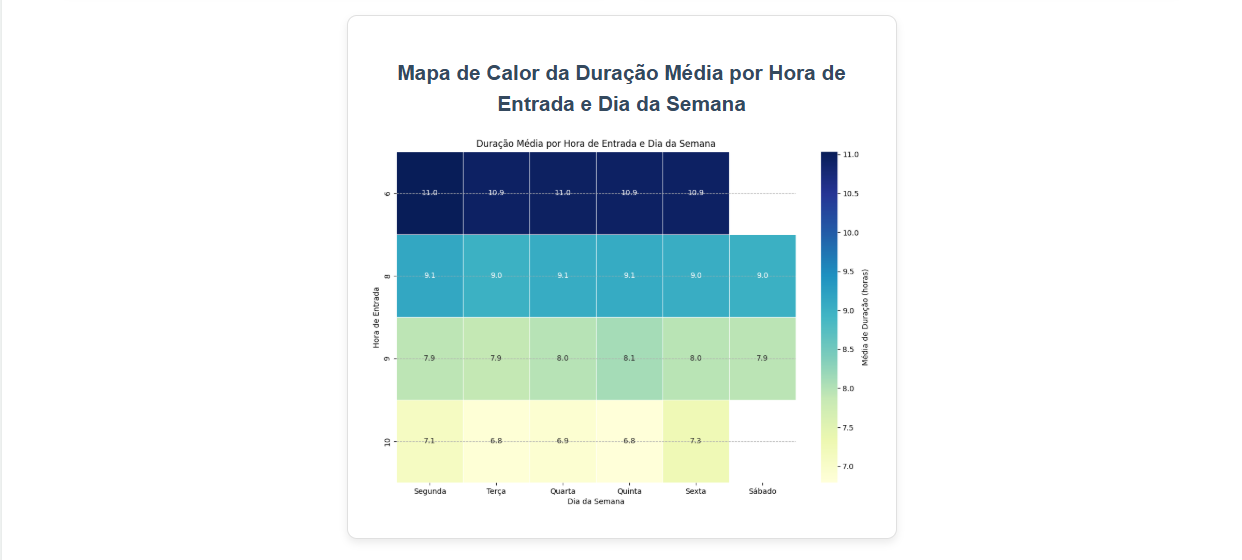
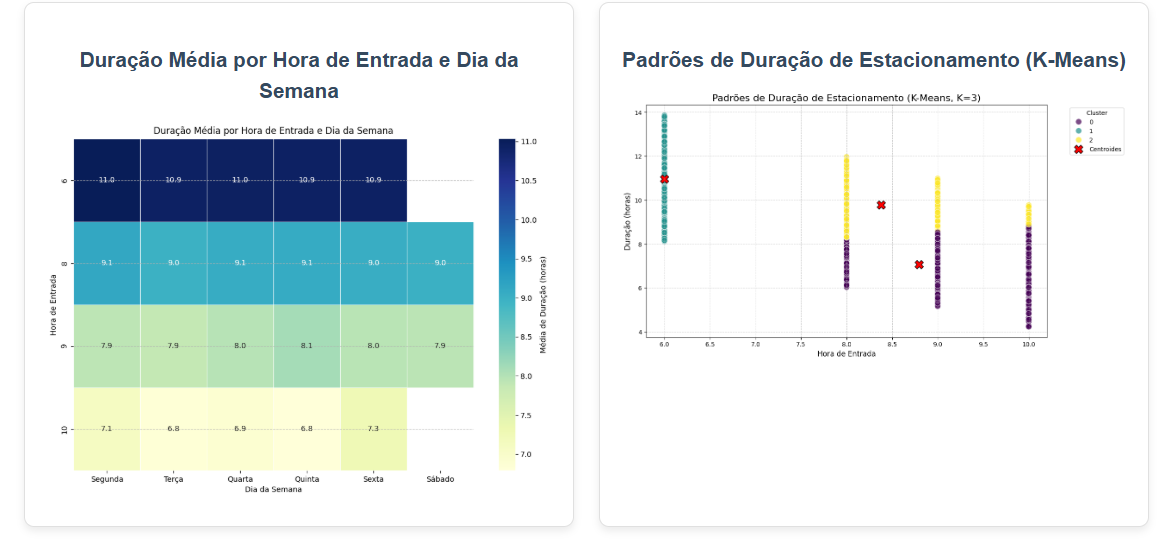
Atualizaacao README

diff --git a/README.md b/README.md
@@ -32,7 +32,6 @@ Implementação de análise de dados que são gerados pelo fluxo diário de veí
 
 Os dados acumulados no registro de movimentações diárias de veículos automotores em um estacionamento de uma instituição religiosa não têm sido aproveitados, tornandose apenas armazenamento de informações quase obsoletas. Tais dados poderão ser utilizados de forma estratégica para a tomada de decisões e melhorias operacionais, além de possibilitarem uma visão clara e objetiva dos acontecimentos. Este estacionamento é gratuito para membros, porém, outras pessoas procuram a entidade para se tornarem mensalistas. Isso acontece porque a localização da organização é privilegiada em relação ao acesso a transportes públicos — próxima à estação da CPTM e na rota de ônibus executivos — ou seja, é um local onde se pode deixar veículos em segurança e direcionar-se à capital para o trabalho.
 
-
 ## Objetivo
 
 Transformar registros operacionais em informações estratégicas, permitindo: Identificação de horários de pico e períodos de baixa demanda; Monitoramento da rotatividade e tempo médio de permanência; Classificação de perfis de usuários inadimplentes; Detecção de comportamentos atípicos ou recorrentes; Apoio à tomada de decisões para melhorias operacionais. Também faz parte do objetivo cumprir, por meio deste projeto, todos os requisitos da disciplina acadêmica.
@@ -72,8 +71,10 @@ Este é um aplicativo web simples construído com Flask para realizar a análise
     3.  **Histograma da Duração de Permanência:** Um histograma para visualizar a distribuição das durações de permanência.
     4.  **Box Plot da Duração por Mês:** Um box plot que mostra a distribuição da duração de permanência para cada mês.
     5.  **Mapa de Calor da Duração Média por Hora de Entrada e Dia da Semana:** Um mapa de calor que visualiza a duração média de permanência em diferentes horas do dia e dias da semana, identificando horários de pico ou padrões de uso.
-* **Análise Exploratória de Dados (EDA) para Pagamentos:** Gera o seguinte gráfico:
-    1.  **Gráfico de Status de Pagamento dos Mensalistas:** Um gráfico de setores (pizza) mostrando a proporção de mensalistas "Em Dia" e "Inadimplentes".
+    6.  **Padrões de Duração de Estacionamento (K-Means):** Um gráfico de dispersão que utiliza o algoritmo K-Means para agrupar veículos com base na duração da permanência e hora de entrada, revelando diferentes perfis de uso do estacionamento.
+* **Análise Exploratória de Dados (EDA) para Pagamentos:** Gera os seguintes gráficos:
+    1.  **Gráfico de Status de Pagamento dos Mensalistas (Geral):** Um gráfico de setores (pizza) mostrando a proporção de mensalistas "Em Dia" e "Inadimplentes".
+    2.  **Status de Pagamento Mensal de Mensalistas:** Um gráfico de barras que exibe a quantidade de mensalistas "Em Dia" e "Inadimplentes" por mês, permitindo a visualização da variação da adimplência ao longo do tempo.
 * **Visualização Web:** Apresenta todos os gráficos, KPIs e estatísticas de forma interativa e responsiva em um dashboard web.
 
 ## Detalhes do Código
@@ -82,15 +83,18 @@ Este é um aplicativo web simples construído com Flask para realizar a análise
 
 Este arquivo contém a lógica de backend do aplicativo Flask.
 
-* **Importações**: Carrega bibliotecas como `pandas`, `numpy`, `matplotlib`, `seaborn`, `flask`, `io`, `base64` para manipulação de dados, geração de gráficos e interface web.
+* **Importações**: Carrega bibliotecas como `pandas`, `numpy`, `matplotlib`, `seaborn`, `flask`, `io`, `base64`, `sklearn` para manipulação de dados, geração de gráficos, aprendizado de máquina e interface web.
 * **`formatar_duracao_numerica(td)`**: Função auxiliar que converte objetos `Timedelta` em duração em horas.
-* **`tratar_dados_estacionamento(df)`**: Pré-processa o DataFrame de estacionamento, calculando durações, extraindo componentes de data/hora (mês, dia da semana, hora de entrada) e tratando dados ausentes.
+* **`categorizar_periodo_do_dia(hora)`**: Classifica uma dada hora de entrada em 'Manhã', 'Tarde' ou 'Noite'.
+* **`tratar_dados_estacionamento(df)`**: Pré-processa o DataFrame de estacionamento, calculando durações, extraindo componentes de data/hora (mês, dia da semana, hora de entrada, período de entrada) e tratando dados ausentes.
 * **`tratar_dados_pagamento(df_pagamentos)`**: Pré-processa o DataFrame de pagamentos, calculando o `Status_Pagamento` baseado na data limite e dia de pagamento.
 * **`gerar_grafico(fig, ax, ...)`**: Função utilitária que salva uma figura Matplotlib em um `BytesIO` e a codifica em Base64 para ser incorporada diretamente no HTML.
+* **`gerar_grafico_kmeans_estacionamento(df_estacionamento)`**: Implementa o algoritmo K-Means para identificar padrões de uso do estacionamento com base na duração e hora de entrada, gerando um gráfico de dispersão com os clusters.
 * **`gerar_grafico_status_pagamento(df_pagamentos)`**: Função específica para criar o gráfico de setores de status de pagamento, incluindo lógica de cores e legendas.
+* **`gerar_grafico_status_pagamento_por_mes(df_pagamentos)`**: Gera um gráfico de barras que detalha o status de pagamento (Em Dia/Inadimplente) mês a mês.
 * **`realizar_analise_completa()`**: A função principal de análise de dados.
     * Carregamento e tratamento de `csv_estacionamento.csv` e `pagamentos_placas.csv`.
-    * Geração de todos os gráficos de estacionamento (5) e de pagamento (1).
+    * Geração de todos os gráficos de estacionamento (incluindo K-Means) e de pagamento.
     * Salvamento dos DataFrames tratados em arquivos CSV.
     * Retorna um dicionário com estatísticas (total de registros) e as strings Base64 de todos os gráficos.
 * **`@app.route('/')` (função `index()`):** A rota principal do aplicativo. Chama `realizar_analise_completa()` e renderiza o template `index.html`, passando todas as estatísticas e gráficos para exibição.
@@ -112,28 +116,30 @@ Abaixo, algumas imagens dos gráficos gerados pelo aplicativo:
 *Início de dashboard e KPIs*
 ![resultado](imagens/resultados_1.png)
 
-Com o KPIs pode-se obter um panorama geral dos dados fornecidos dos dois arquivos CSVs. O arquivo csv_estacionamento que consiste na entrada e saída dos carros com sua data, marca do carro e modelo. No outro arquivo pagamento_placas, mostra os mensalistas que contém uma coluna referente a placa, data que deve ser pago e a data que foi pago.
-Os gráfico de 1 a 5 são referentes ao arquivo CSV csv_estacionamento e os gráficos 6 e 7 são referentes ao arquivo CSV pagamento_placas.
+Com os KPIs, pode-se obter um panorama geral dos dados fornecidos dos dois arquivos CSVs. O arquivo `csv_estacionamento` consiste na entrada e saída dos carros com sua data, marca do carro e modelo. O arquivo `pagamento_placas` mostra os mensalistas, contendo uma coluna referente à placa, data limite para pagamento e a data em que foi pago.
+Os gráficos de 1 a 6 são referentes ao arquivo CSV `csv_estacionamento` e os gráficos 7 e 8 são referentes ao arquivo CSV `pagamento_placas`.
 
 *Gráficos 1, 2: Média de Duração por Dia da Semana e Média de Duração Geral*
 ![resultado](imagens/resultados_2.png)
 
-No Primeiro gráfico que é a média da duração em relação a semana é possível obter um panorama, em qual dia da semana a média é menor e maior.
-No segundo gráfico mostra a média geral contando todos os dias da semana. E com esse gráfico é possível verificar que sábado é o único dia que fica abaixo da média geral.
+No Primeiro gráfico, que é a média da duração em relação à semana, é possível obter um panorama de qual dia da semana a média de permanência é menor e maior.
+No segundo gráfico, mostra a média geral contando todos os dias da semana. Com esse gráfico, é possível verificar que sábado é o único dia que fica abaixo da média geral.
 
 *Gráficos 3, 4: Histograma da Duração de Permanência e Box Plot da Duração por Mês*
 ![resultado](imagens/resultados_3.png)
 
-No terceiro gráfico é possível ver a quantidade de veículos estacionados em relação ao tempo de permanência deles.
-No quarto gráfico é a permanência em relação a duração do mês.
+No terceiro gráfico, é possível ver a quantidade de veículos estacionados em relação ao tempo de permanência deles.
+No quarto gráfico, é a permanência em relação à duração por mês.
 
-*Gráfico 5: Mapa de Calor da Duração Média*
+*Gráficos 5, 6: Mapa de Calor da Duração Média e Padrões de Duração de Estacionamento (K-Means)*
 ![resultado](imagens/resultados_4.png)
 
 No quinto gráfico é um mapa de calor que mostra a duração de permanência em relação ao horário de entrada e com isso pode-se observar que o período da manhã é o período que os veículos permanecem por mais tempo (mais de 10 horas).
 
-*Gráficos 6, 7: Gráfico de Setores de Status de Pagamento dos Mensalistas e o Gráfico de Barras de Status de Pagamento dos Mensalistas*
+No sexto gráfico, o agrupamento K-Means auxilia na identificação de perfis distintos de usuários do estacionamento com base em sua **duração de permanência** e **hora de entrada**. Cada cor representa um cluster diferente, indicando grupos de veículos com comportamentos semelhantes. Por exemplo, pode-se identificar um cluster de "estacionamentos rápidos em horários de pico" e outro de "permanências longas durante o dia de trabalho".
+
+*Gráficos 7, 8: Gráfico de Setores de Status de Pagamento dos Mensalistas e o Gráfico de Barras de Status de Pagamento Mensal*
 ![resultado](imagens/resultados_5.png)
 
-No sexto gráfico mostra a quantidade de mensalistas que estão com o pagamento atrasado e o pagamento em dia.
-No sétimo gráfico é possível ver se os mensalistas estão em dia ou atrasado, mas em relação ao mês.
+No sétimo gráfico, mostra a quantidade de mensalistas que estão com o pagamento atrasado e o pagamento em dia.
+No oitavo gráfico, é possível ver se os mensalistas estão em dia ou atrasado, mas em relação ao mês, permitindo identificar tendências de inadimplência.
